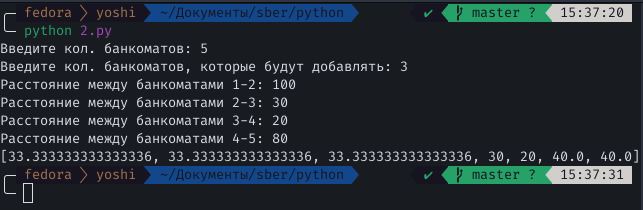
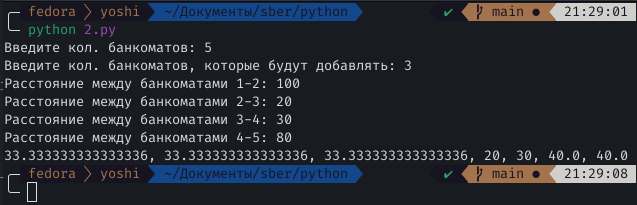
minor fix

Changed region(s): [[0.0, 0.0, 1.0, 1.0], [0.0, 0.2927, 0.6562, 0.3512], [0.0, 0.2049, 0.3281, 0.2634]]

diff --git a/python/2.py b/python/2.py
@@ -1,21 +1,18 @@
 def add_atms(n, k, distances):
     distances_dict = {key: [value] for key, value in enumerate(distances)}
-    sorted_dict = dict(
-        sorted(distances_dict.items(), key=lambda item: item[1], reverse=True))
 
     for _ in range(k):
         max_distance = max(distances)
         max_distance_index = distances.index(max_distance)
 
-        for key, value in sorted_dict.items():
+        for key, value in distances_dict.items():
             if max(value) == max_distance:
                 divider = len(value) + 1
                 avg = sum(value) / divider
-                sorted_dict[key] = [avg] * divider
+                distances_dict[key] = [avg] * divider
                 distances[max_distance_index] = avg
 
-    new_dict = {key: sorted_dict[key] for key in sorted(sorted_dict.keys())}
-    result = [item for i in new_dict.values() for item in i]
+    result = [item for i in distances_dict.values() for item in i]
     return result
 
 
@@ -26,4 +23,4 @@ distances = [
     int(input(f'Расстояние между банкоматами {i}-{i+1}: ')) for i in range(1, n)]
 
 result = add_atms(n, k, distances)
-print(result)
+print(*result, sep=', ')

diff --git a/README.md b/README.md
@@ -75,22 +75,19 @@ for match in matchs:
 ```
 def add_atms(n, k, distances):
     distances_dict = {key: [value] for key, value in enumerate(distances)}
-    sorted_dict = dict(
-        sorted(distances_dict.items(), key=lambda item: item[1], reverse=True))
 
     for _ in range(k):
         max_distance = max(distances)
         max_distance_index = distances.index(max_distance)
 
-        for key, value in sorted_dict.items():
+        for key, value in distances_dict.items():
             if max(value) == max_distance:
                 divider = len(value) + 1
                 avg = sum(value) / divider
-                sorted_dict[key] = [avg] * divider
+                distances_dict[key] = [avg] * divider
                 distances[max_distance_index] = avg
 
-    new_dict = {key: sorted_dict[key] for key in sorted(sorted_dict.keys())}
-    result = [item for i in new_dict.values() for item in i]
+    result = [item for i in distances_dict.values() for item in i]
     return result
 
 
@@ -101,7 +98,7 @@ distances = [
     int(input(f'Расстояние между банкоматами {i}-{i+1}: ')) for i in range(1, n)]
 
 result = add_atms(n, k, distances)
-print(result)
+print(*result, sep=', ')
 ```
 
 <img src='/img/python2.png'/>
